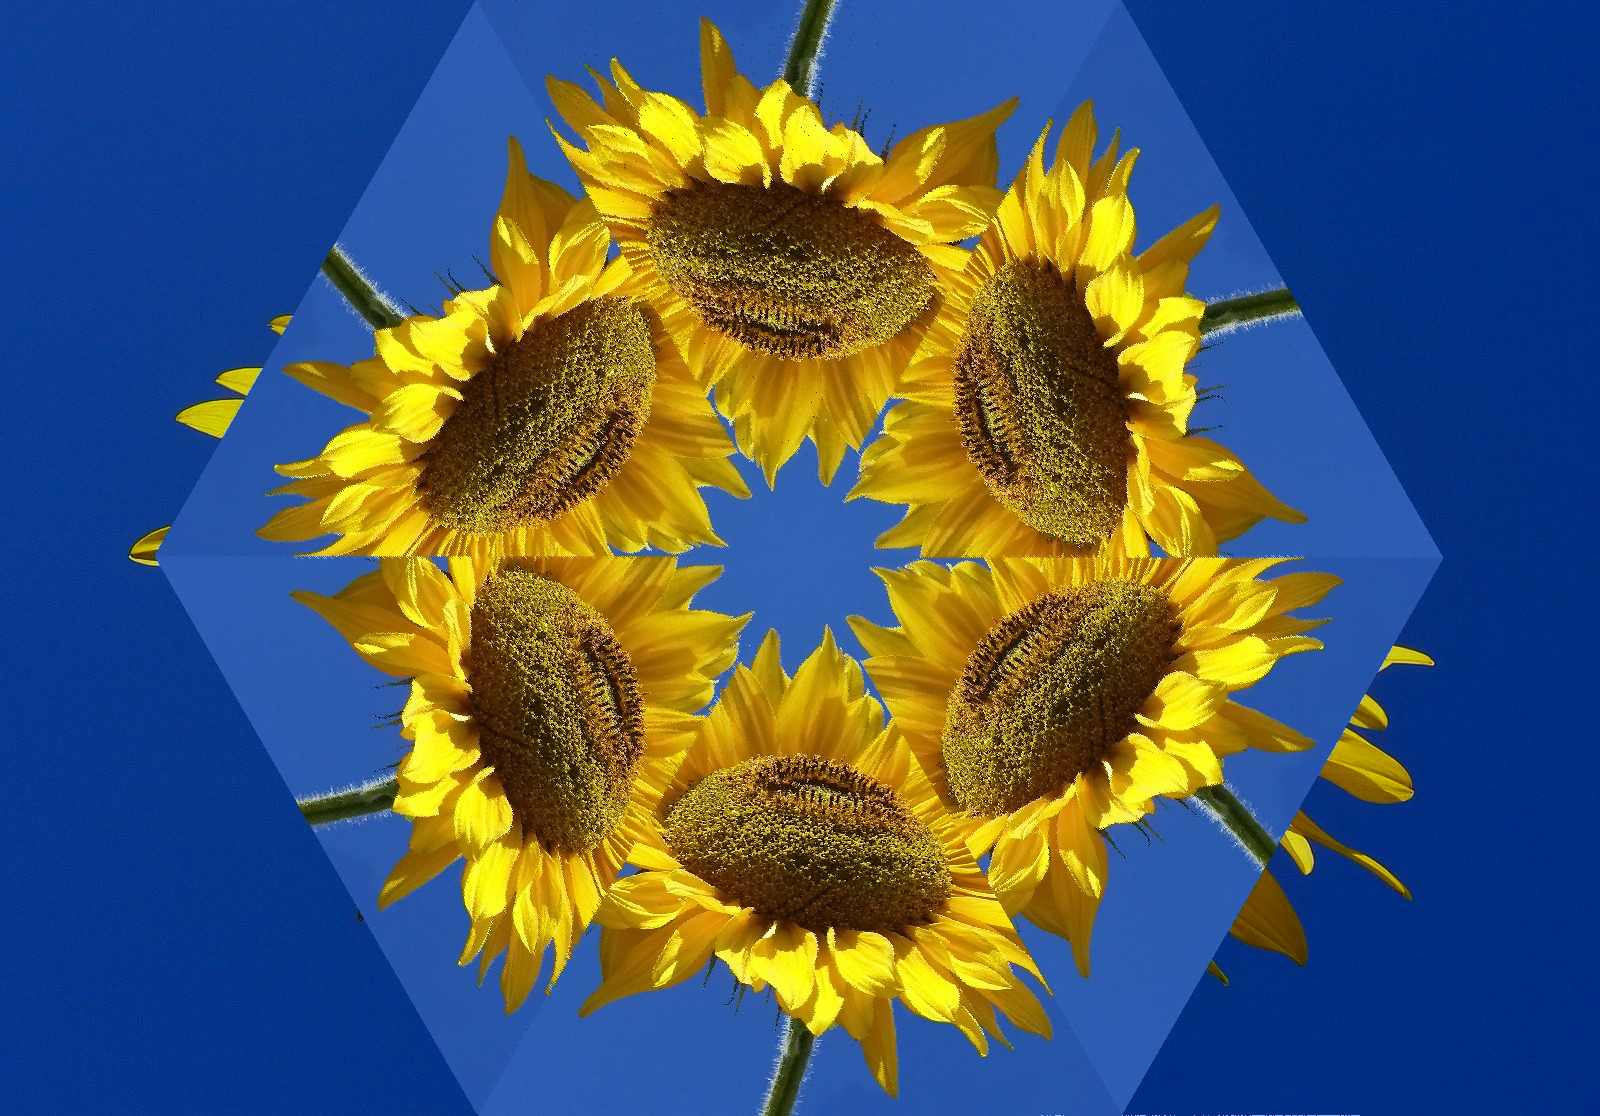
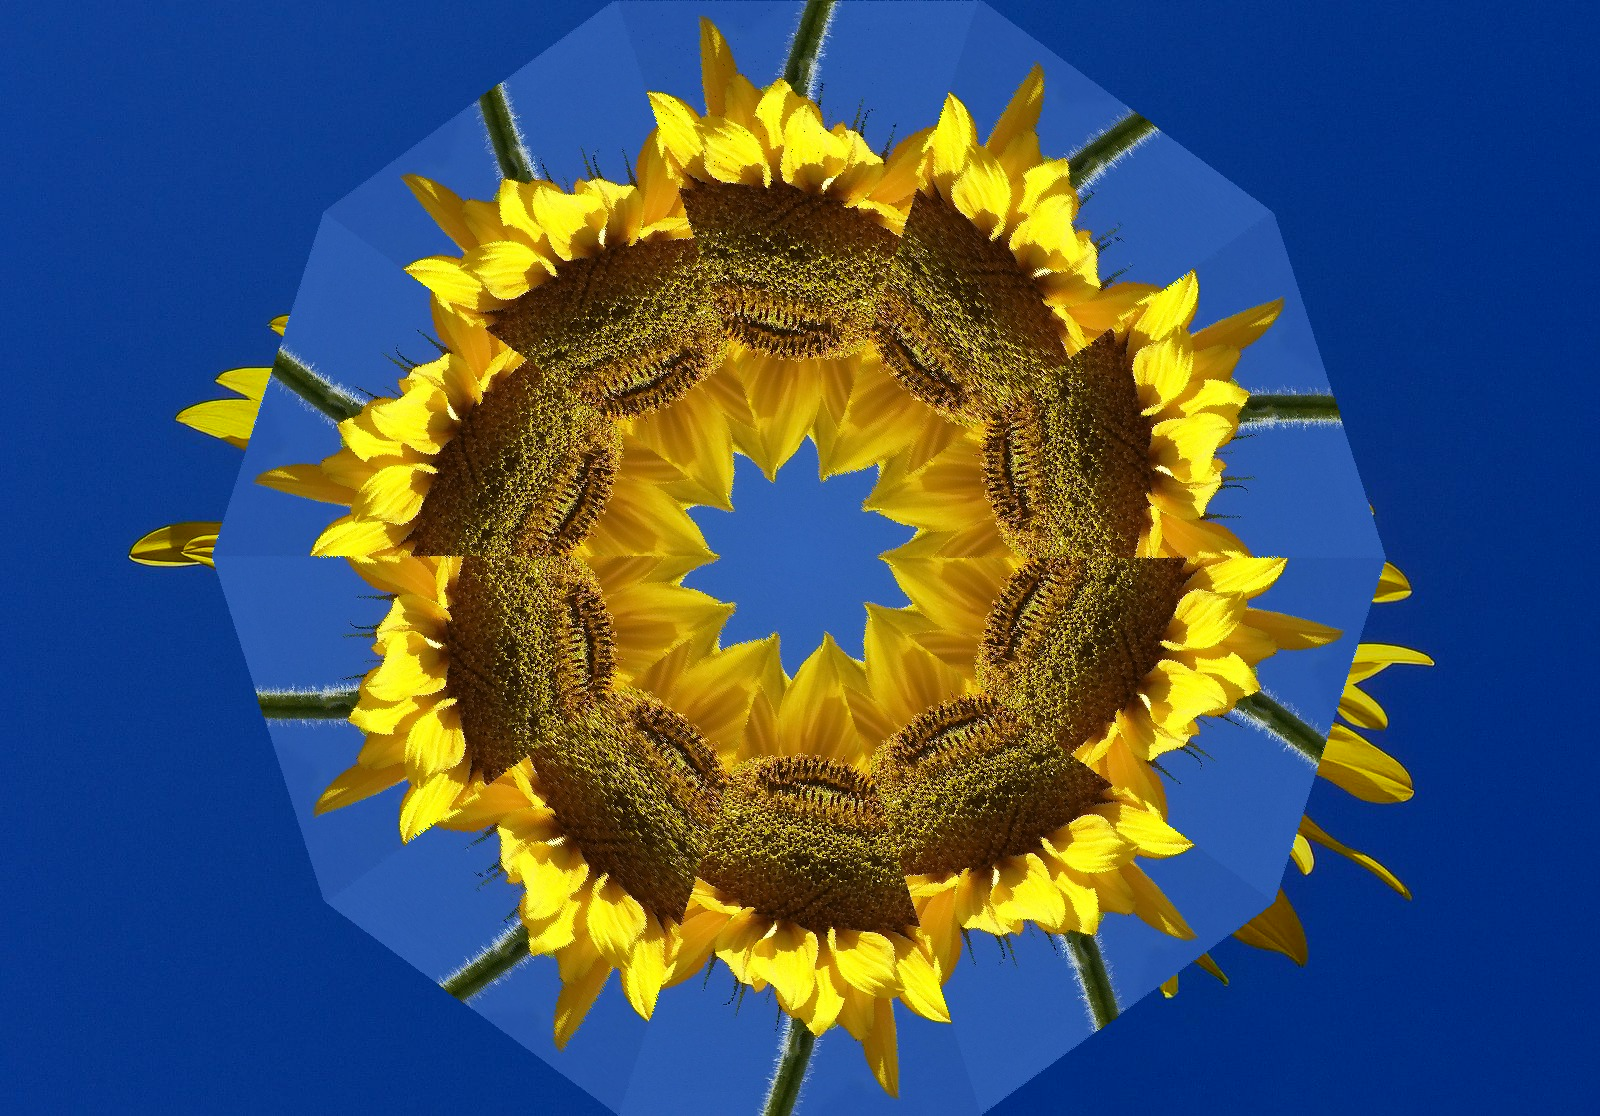
feat: Included boundary checks in the cloning phase plus triangle schematics for the readme

diff --git a/my_library.c b/my_library.c
@@ -12,10 +12,10 @@
  */
 void kaleidoscope(uint8_t *yuvbuf_in, int width, int height,
                   uint8_t *yuvbuf_out, int n_sectors) {
-  // Buffers
+  /* Buffers: We an input image to copy pixels from during the execution of the 
+  filter algorithm. if we need to execute it in place we will be needing a temp 
+  copy of the input image */
   int buf_size = width * height * 3 / 2;
-  uint8_t *yuvbuf_in_2 = (uint8_t *)malloc(buf_size);
-  memmove(yuvbuf_in_2, yuvbuf_in, buf_size);
   memmove(yuvbuf_out, yuvbuf_in, buf_size);
 
   // Offsets for indices of the YUV sections within the frame buffers
@@ -45,7 +45,7 @@ void kaleidoscope(uint8_t *yuvbuf_in, int width, int height,
   do it a top/bottom approach */
   for (int h = height - 1; h >= 0; h -= 2) {
 
-    // Adjust h dependent variables
+    // Split the base of the triangle in two halfs by using half of top angle
     width_length = h * tan(fi / 2);
 
     // Width shrinking by skipping every second pixel in  width dimension
@@ -54,9 +54,9 @@ void kaleidoscope(uint8_t *yuvbuf_in, int width, int height,
 
       // Get the YUV values of the pixel from the main triangle
       uv_idx = (h / 2) * (width / 2) + (w / 2);
-      y = yuvbuf_in_2[h * width + w];
-      u = yuvbuf_in_2[u_off + uv_idx];
-      v = yuvbuf_in_2[v_off + uv_idx];
+      y = yuvbuf_in[h * width + w];
+      u = yuvbuf_in[u_off + uv_idx];
+      v = yuvbuf_in[v_off + uv_idx];
 
       // Calculate the coordinates for the 6 o'clock triangle
       h_dst = height_mid + h / 2;
@@ -122,6 +122,10 @@ void clone_pixel(uint8_t *yuvbuf, int width, int height, int w, int h,
       yuvbuf[v_off + uv_idx] = v;
       --h_dst; // Painting the neighbor pixels as well on each iteration
       --w_dst;
+      // Check we do not cross the image size boundaries
+      if (h_dst < 1 || h_dst > height - 1 || w_dst < 1 || w_dst > width - 1) {
+        break;
+      }
     } // End inner for
   }   // End outer for
 }

diff --git a/README.md b/README.md
@@ -38,3 +38,7 @@ I420 YUV pixel format is explained in this [link](https://www.fourcc.org/pixel-f
 ```
 
 - The kaleidoscope effect is implemented in the function `kaleidoscope` that is declared `my_library.h` and defined in `my_library.c`. Further, helper functions are used and defined after `kaleidoscope`.
+
+- The the main triangle and the basic 6 o' clock triangle of the kaleidoscope that are used during shrinking are shown below.
+
+![Trigonometry](schematic.png)
